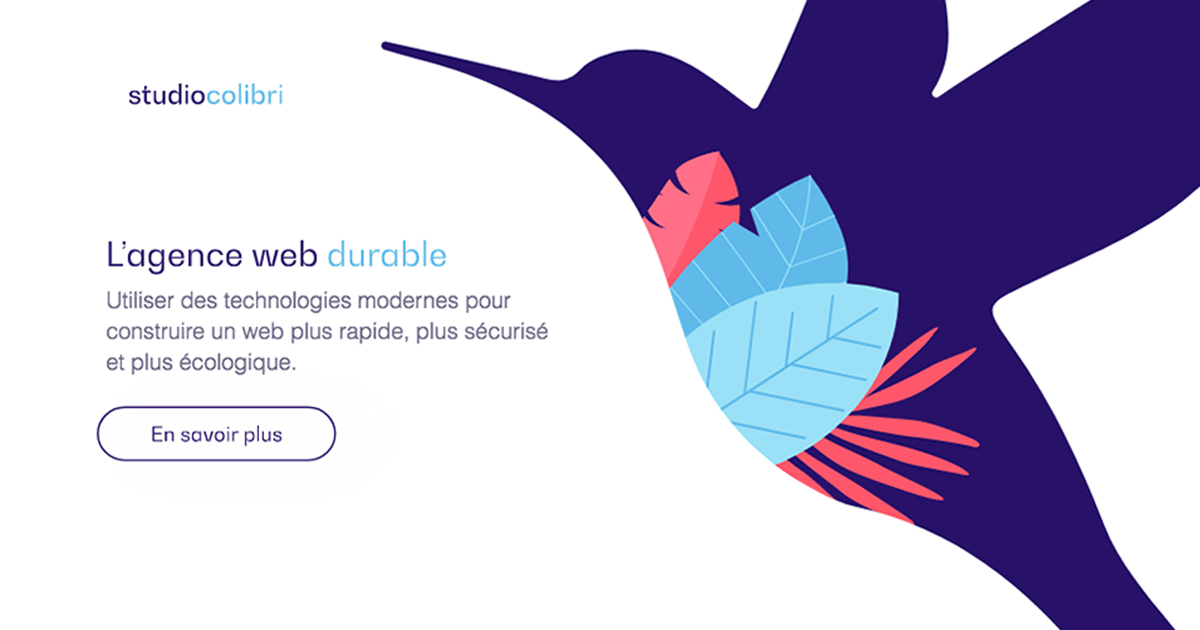
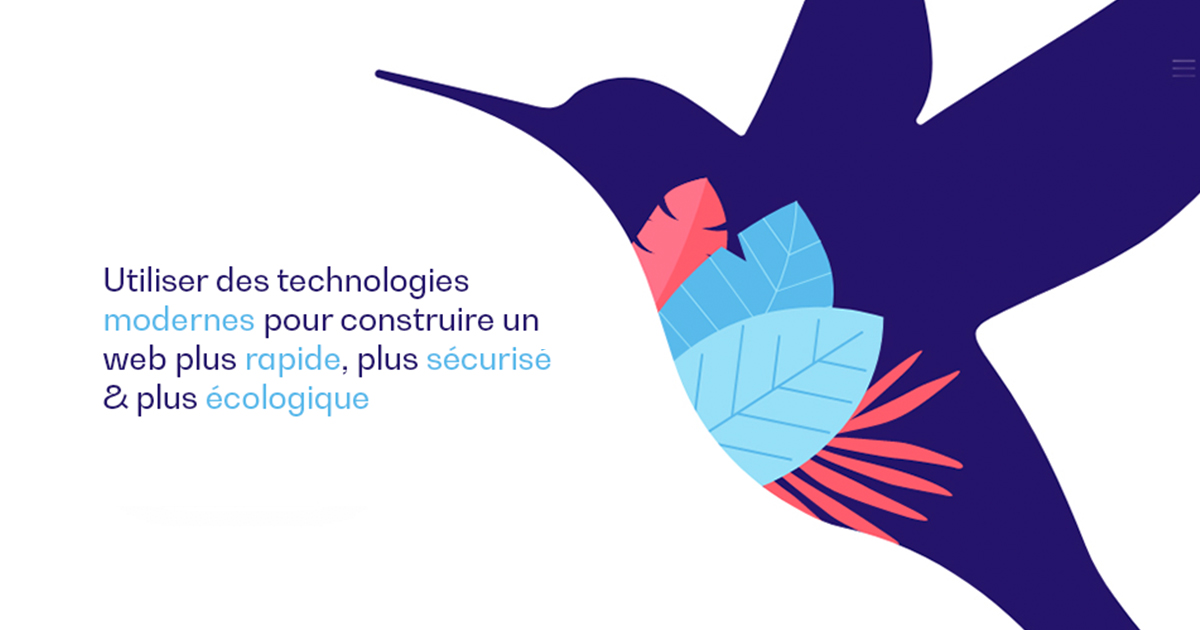
colibri width fix for IE, updated og:image, fade-in on homepage-content

diff --git a/themes/colibri/assets/sass/main.css b/themes/colibri/assets/sass/main.css
@@ -220,6 +220,9 @@ p, ul {
   animation-delay: 500ms;
   animation-fill-mode: forwards;
   animation-timing-function: cubic-bezier(0.39, 0.58, 0.57, 1); }
+  @supports not (display: grid) {
+    .colibri-img {
+      width: 67vw; } }
   @media (min-width: 768px) {
     .colibri-img {
       top: -14vw; } }
@@ -270,11 +273,22 @@ p, ul {
   to {
     opacity: 1; } }
 .homepage-content {
-  margin-top: 100px; }
+  opacity: 0;
+  margin-top: 100px;
+  animation-name: appeartitle3;
+  animation-duration: 1000ms;
+  animation-delay: 2000ms;
+  animation-fill-mode: forwards;
+  animation-timing-function: cubic-bezier(0.39, 0.58, 0.57, 1); }
   @media (min-width: 768px) {
     .homepage-content {
       margin-top: 200px; } }
 
+@keyframes appeartitle3 {
+  from {
+    opacity: 0; }
+  to {
+    opacity: 1; } }
 .gray-block {
   display: block;
   width: 100%;

diff --git a/themes/colibri/assets/sass/partials/_home.scss b/themes/colibri/assets/sass/partials/_home.scss
@@ -24,6 +24,10 @@
     animation-delay: 500ms;
     animation-fill-mode: forwards;
     animation-timing-function: cubic-bezier(.39,.58,.57,1);
+	
+	@supports not (display:grid) {
+	width:67vw;
+}
 
     @media (min-width:768px) {
         top:-14vw;
@@ -99,13 +103,28 @@
 }
 
 .homepage-content {
-    margin-top:$su*5;
+    opacity: 0;
+	margin-top:$su*5;
+	animation-name:appeartitle3;
+    animation-duration: 1000ms;
+    animation-delay: 2000ms;
+    animation-fill-mode: forwards;
+    animation-timing-function: cubic-bezier(.39,.58,.57,1);
+	
 
     @media (min-width:768px) {
         margin-top:$su*10;
     }
 }
 
+@keyframes appeartitle3 {
+    from {
+        opacity:0;
+    }
+    to {
+        opacity:1;
+    }
+}
 .gray-block {
     display:block;
     width:100%;
